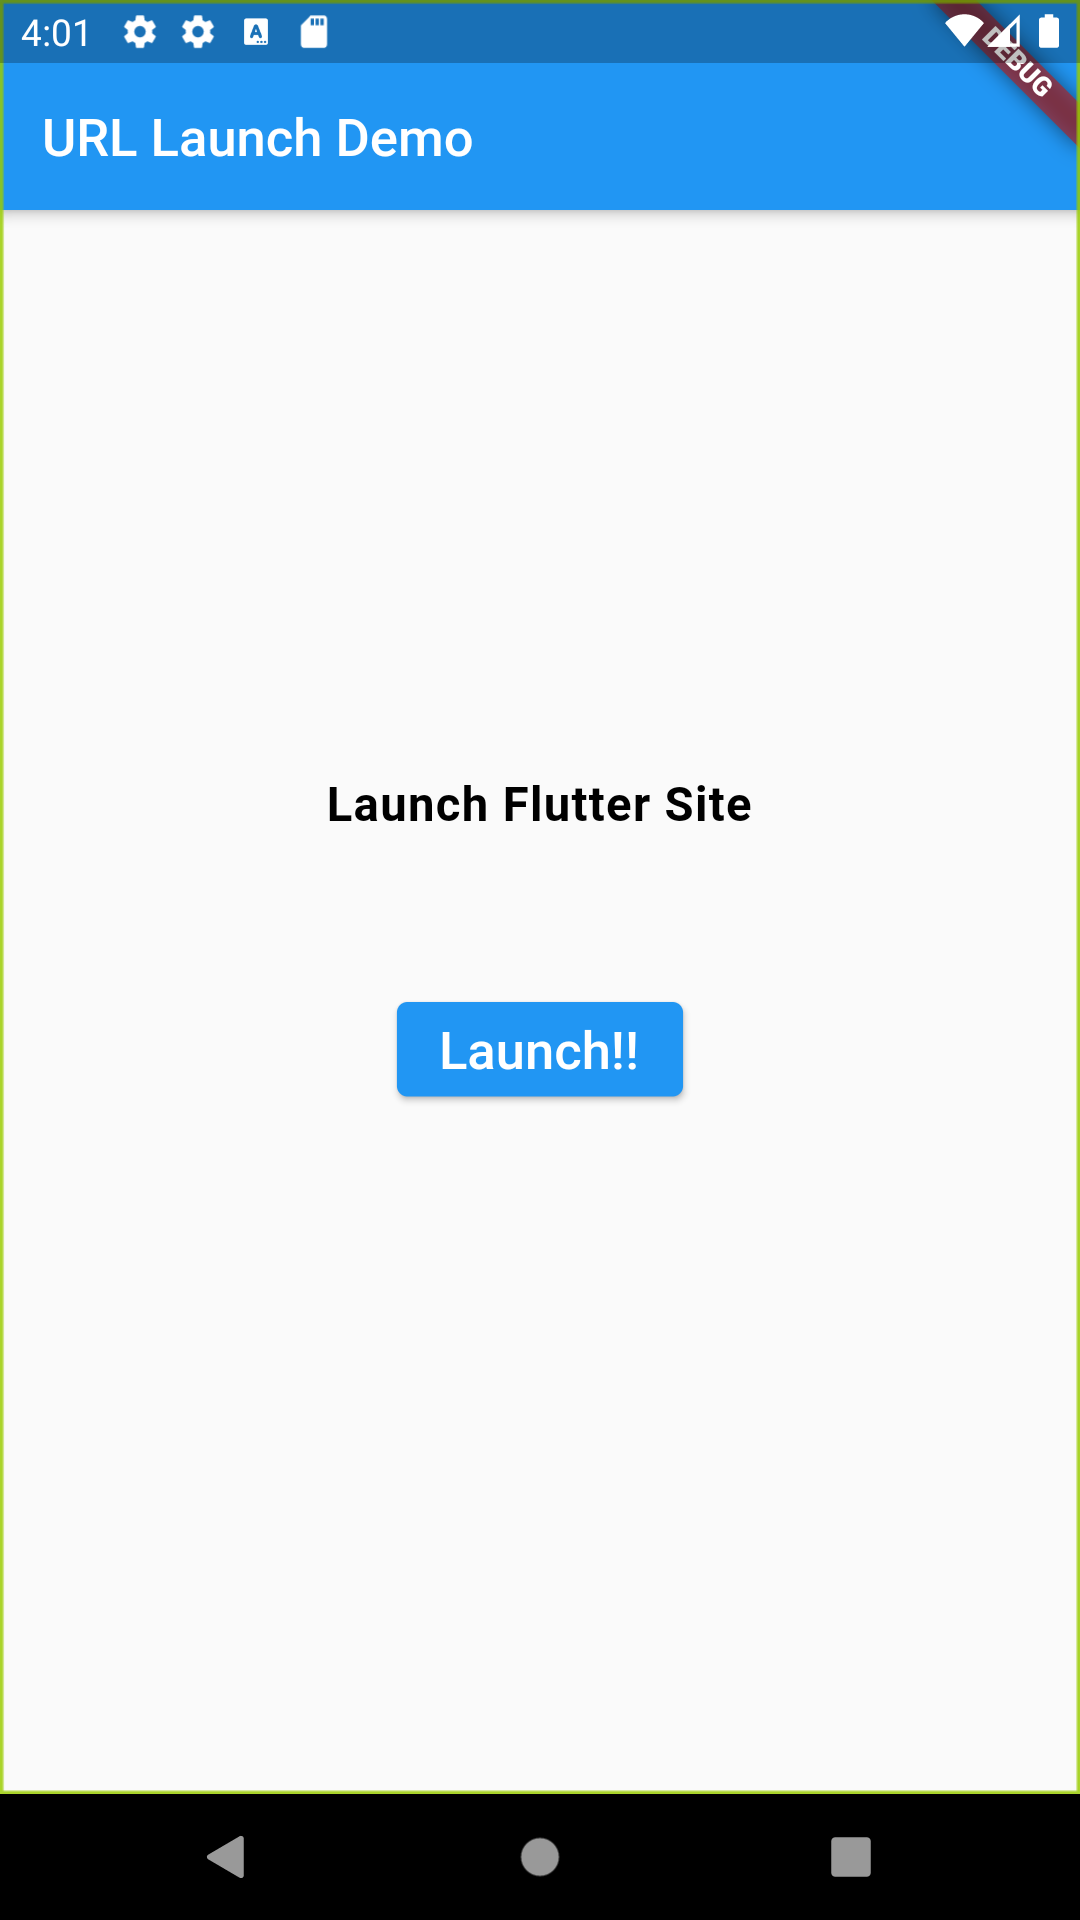
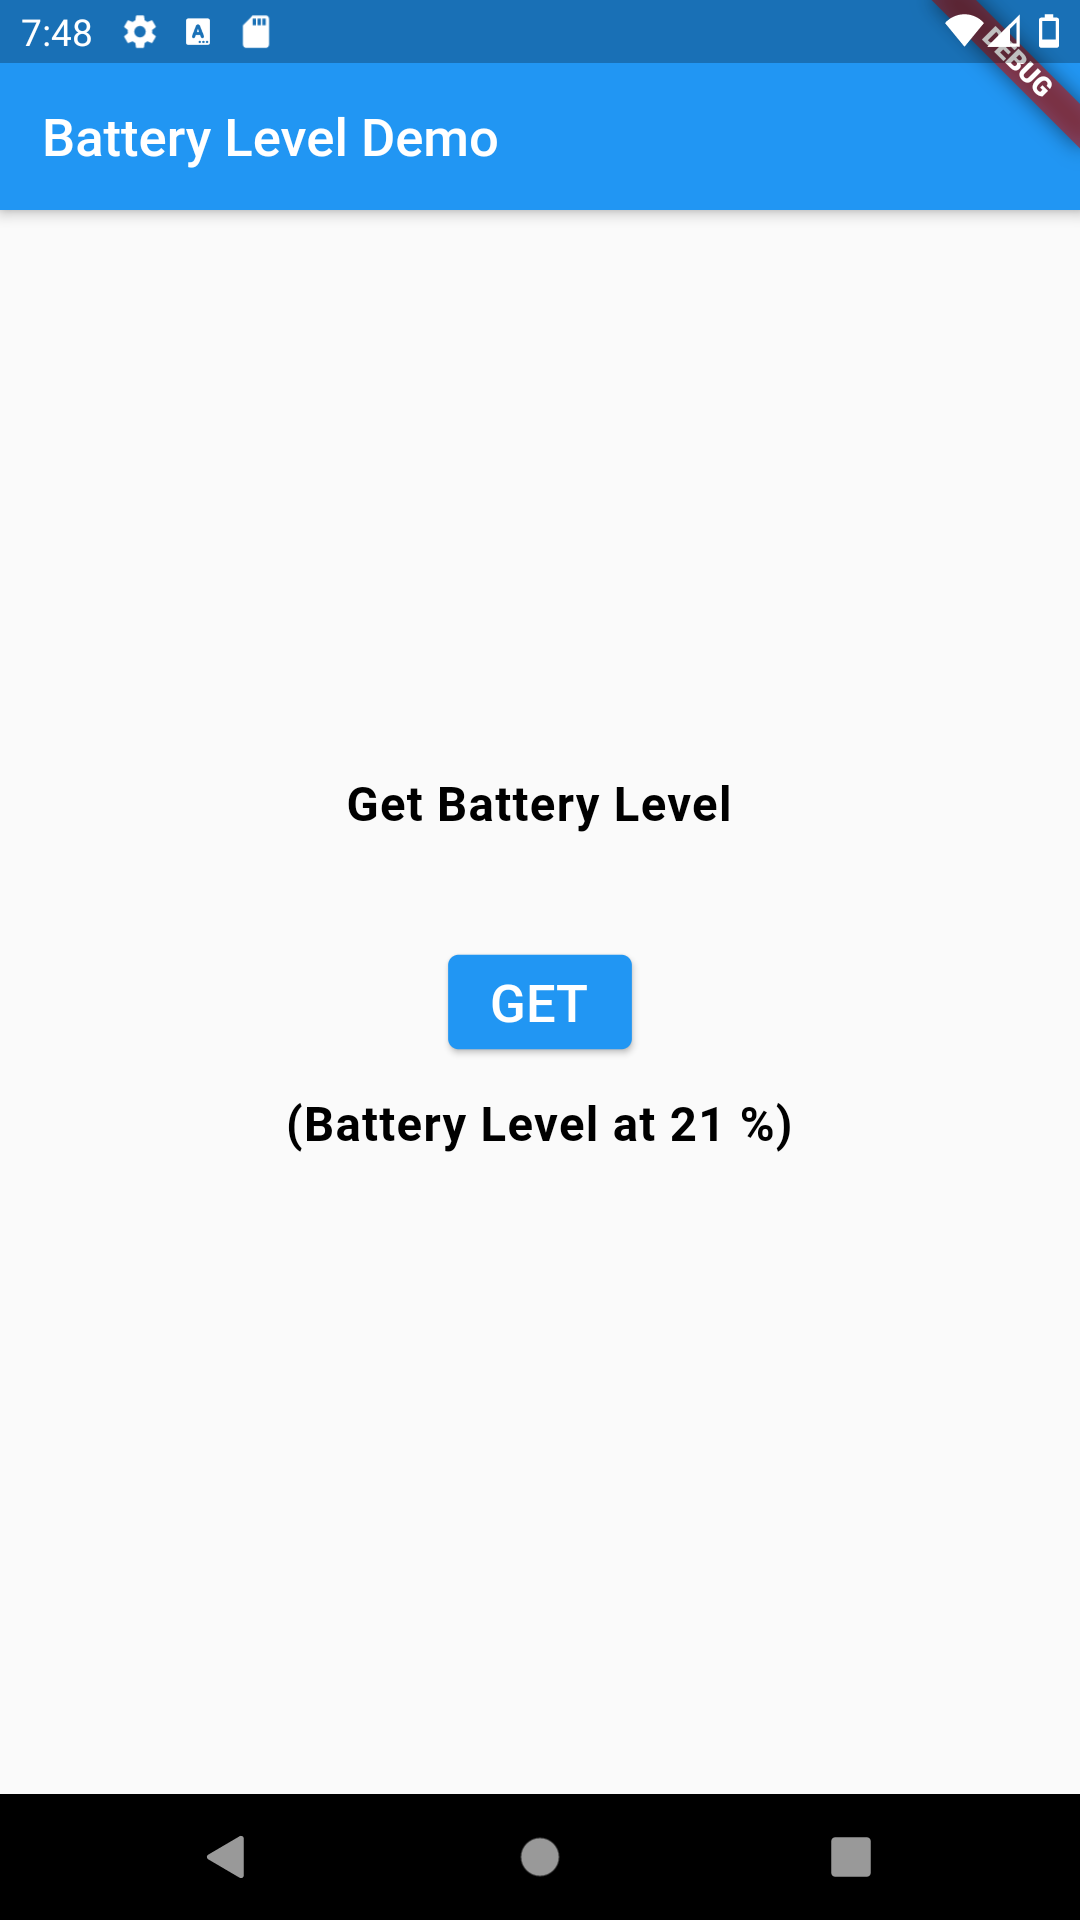
Getting android battery level

diff --git a/lib/main.dart b/lib/main.dart
@@ -1,7 +1,7 @@
 import 'package:flutter/material.dart';
+import 'package:flutter/services.dart';
 import 'package:url_launcher/url_launcher.dart';
 import 'package:flutter/rendering.dart';
-
 
 void main() {
   runApp(MyApp());
@@ -20,28 +20,27 @@ class MyApp extends StatelessWidget {
   @override
   Widget build(BuildContext context) {
     return MaterialApp(
-      title: 'URL Launch Demo',
+      title: 'Battery Level Demo',
       theme: ThemeData(
         primarySwatch: Colors.blue,
       ),
       home: Scaffold(
         appBar: AppBar(
-          title: Text('URL Launch Demo'),
+          title: Text('Battery Level Demo'),
         ),
         body: Container(
           alignment: Alignment.center,
           child: DefaultTextStyle(
-
             style: descTextStyle,
             child: Column(
               mainAxisAlignment: MainAxisAlignment.center,
               children: [
-                Text('Launch Flutter Site'),
+                Text('Get Battery Level'),
                 Container(
                   width: 300,
                   height: 100,
                   margin: EdgeInsets.all(30),
-                  child: NativeButton(),
+                  child: BatteryFrame(),
                 )
               ],
             ),
@@ -52,36 +51,43 @@ class MyApp extends StatelessWidget {
   }
 }
 
-
-
-class NativeButton extends StatefulWidget {
+class BatteryFrame extends StatefulWidget {
   @override
-  _NativeButtonState createState() => _NativeButtonState();
+  _BatteryFrameState createState() => _BatteryFrameState();
 }
 
-class _NativeButtonState extends State<NativeButton> {
-
+class _BatteryFrameState extends State<BatteryFrame> {
+  String _batteryLevel = '(Unknown battery level)';
+  static const batteryPlatform = const MethodChannel('hs.flutter.demo/battery');
 
   @override
   Widget build(BuildContext context) {
     return Center(
-      child: ElevatedButton(
-        onPressed: _launchURL,
-        child: Text(
-          'Launch!!',
-          style: TextStyle(fontSize: 20),
+      child: Column(mainAxisAlignment: MainAxisAlignment.center, children: [
+        ElevatedButton(
+          onPressed: _getBatteryLevel,
+          child: Text(
+            'GET',
+            style: TextStyle(fontSize: 20),
+          ),
         ),
-      ),
+        Text(_batteryLevel)
+      ]),
     );
   }
 
-  _launchURL() async {
-    const url = 'https://flutter.io';
-    // if (await canLaunch(url)) {
-      await launch(url);
-    // } else {
-    //   throw 'Could not launch $url';
-    // }
+  _getBatteryLevel() async {
+    String batteryLevel;
+    try {
+      final int result =
+          await batteryPlatform.invokeMethod('getPlatformBatteryLevel');
+      batteryLevel = '(Battery Level at $result %)';
+    } on PlatformException catch (e) {
+      batteryLevel = '(Failed to get Battery Level: ${e.message})';
+    }
+
+    setState(() {
+      _batteryLevel = batteryLevel;
+    });
   }
 }
-

diff --git a/android/app/src/main/kotlin/com/learn/flutter_app/MainActivity.kt b/android/app/src/main/kotlin/com/learn/flutter_app/MainActivity.kt
@@ -1,6 +1,49 @@
 package com.learn.flutter_app
 
+import android.content.Context
+import android.content.ContextWrapper
+import android.content.Intent
+import android.content.IntentFilter
+import android.os.BatteryManager
+import android.os.Build
+import android.os.Build.VERSION
+import androidx.annotation.NonNull
 import io.flutter.embedding.android.FlutterActivity
+import io.flutter.embedding.engine.FlutterEngine
+import io.flutter.plugin.common.MethodChannel
 
-class MainActivity: FlutterActivity() {
+class MainActivity : FlutterActivity() {
+
+    private val CHANNEL = "hs.flutter.demo/battery"
+
+    override fun configureFlutterEngine(@NonNull flutterEngine: FlutterEngine) {
+        super.configureFlutterEngine(flutterEngine)
+        MethodChannel(flutterEngine.dartExecutor.binaryMessenger, CHANNEL).setMethodCallHandler { call, result ->
+            if (call.method == "getPlatformBatteryLevel") {
+                val batteryLevel = getBatteryLevel()
+                if (batteryLevel != -1) {
+                    result.success(batteryLevel)
+                } else {
+                    result.error("UNAVAILABLE", "Battery Level Not Available", null)
+                }
+            }else{
+                result.notImplemented()
+            }
+
+        }
+
+    }
+
+
+    private fun getBatteryLevel(): Int {
+        val batteryLevel: IntVERSION.SDK_INT >= Build.VERSION_CODES.LOLLIPOP) {
+            val batteryManager = getSystemService(Context.BATTERY_SERVICE) as BatteryManager
+            batteryLevel = batteryManager.getIntProperty(BatteryManager.BATTERY_PROPERTY_CAPACITY)
+        } else {
+            val intent = ContextWrapper(applicationContext).registerReceiver(null, IntentFilter(Intent.ACTION_BATTERY_CHANGED))
+            batteryLevel = intent!!.getIntExtra(BatteryManager.EXTRA_LEVEL, -1) * 100 / intent.getIntExtra(BatteryManager.EXTRA_SCALE, -1)
+        }       return batteryLevel
+    }
+
+
 }

diff --git a/README.md b/README.md
@@ -2,19 +2,20 @@
 
 A new Flutter application.
 
-## Demo 17
+## Demo 18
 
-Create a launch button. On click of it redirect to flutter site.
-Running the same demo on chrome using below commands:
-- **flutter create .** : It will create a web package in root
-- **flutter run -d chrome** : Run the project on localhost
+The objective of this demo is to get te battery level using platform specific code. The steps involve:
 
+1) Create flutter platform client - Use _MethodChannel_ to send messages.
+2) On Platform MethodChannel (Android) & Flutter MethodChannel (iOS) for receiving message and return result.
+3) For Android :
+Inside configureFlutterEngine() method, create a MethodChannel and call setMethodCallHandler()
+4) Call the corresponding method and return result from native platform.
 
+We are getting the Android Battery level in this demo.
 
 #### App design ####
-![picture alt](https://raw.githubusercontent.com/HimanshuSharma13/Flutter/feature_d17_web_redirect/screens/home1.png "App design screens")
-![picture alt](https://raw.githubusercontent.com/HimanshuSharma13/Flutter/feature_d17_web_redirect/screens/home2.png "App design screens")
-![picture alt](https://raw.githubusercontent.com/HimanshuSharma13/Flutter/feature_d17_web_redirect/screens/home3.PNG "App design screens")
+![picture alt](https://raw.githubusercontent.com/HimanshuSharma13/Flutter/feature_d18_battery_level_platform/screens/home1.png "App design screens")
 
 
 A few resources to get you started if this is your first Flutter project:
